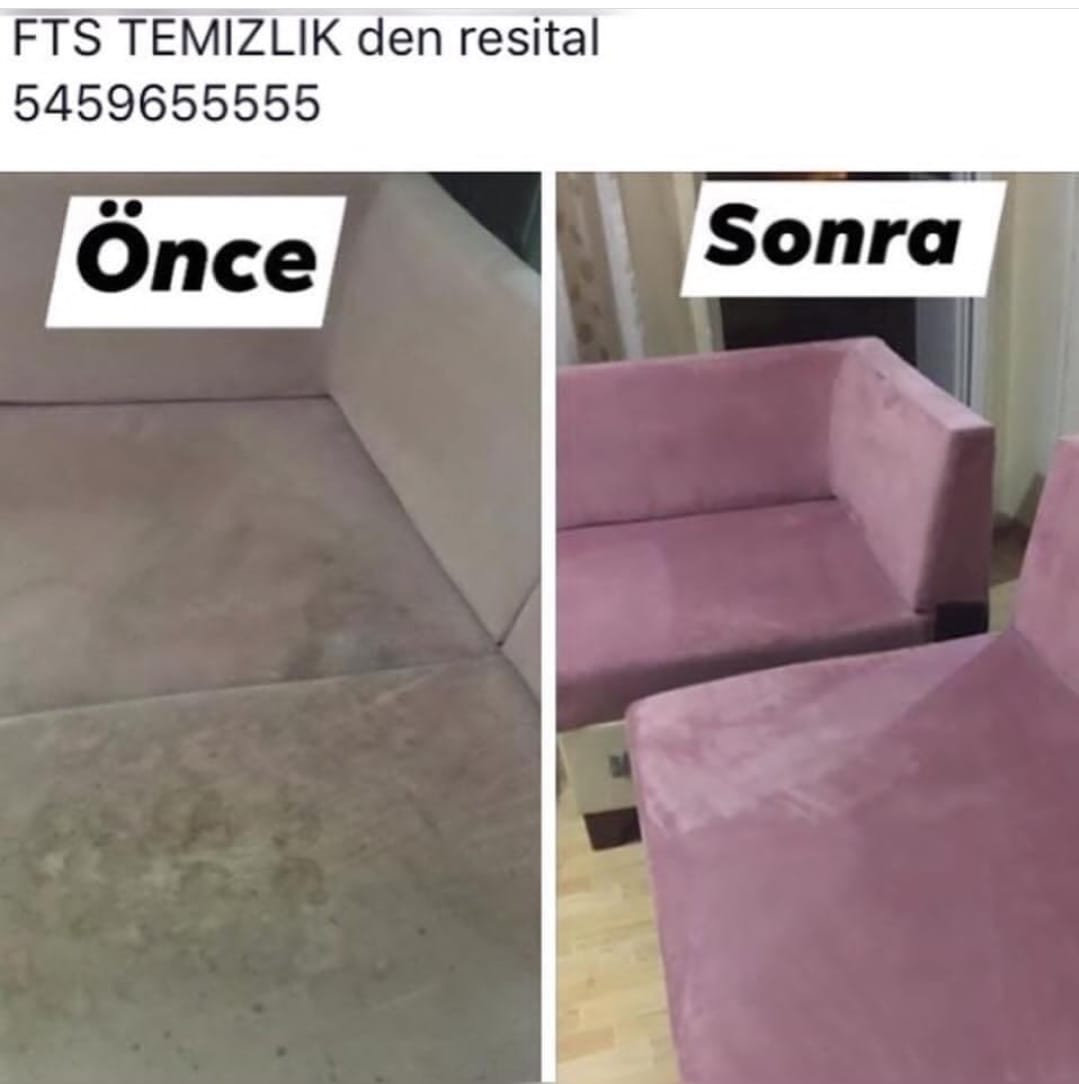
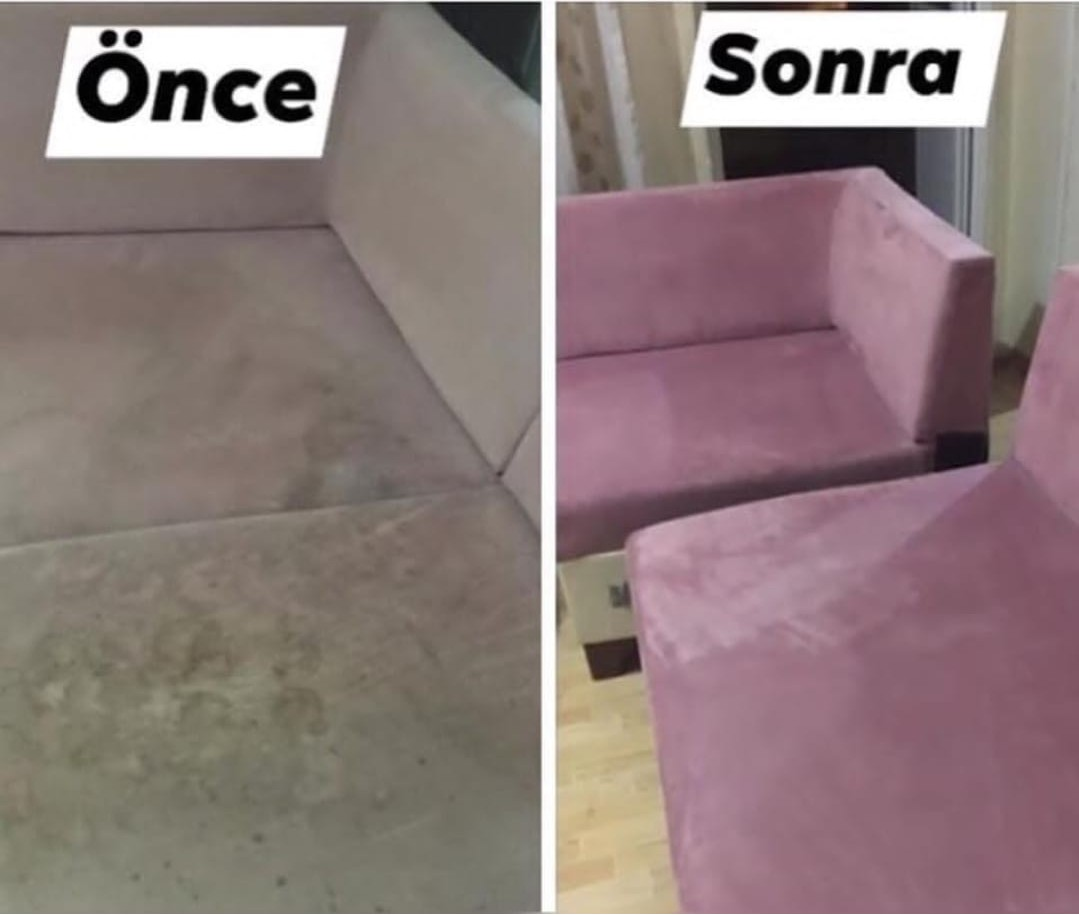
Add files via upload

diff --git a/index.html b/index.html
@@ -115,13 +115,19 @@
     .hero {
       text-align: center;
       padding: 3rem 1.5rem 2rem;
+      background-image: url('yatak.jpeg');
+      background-size: cover;
+      background-position: center;
+      background-repeat: no-repeat;
+      color: white;
+      text-shadow: 0 1px 3px rgba(0,0,0,0.7);
     }
 
     .brand-name {
       font-size: 2.4rem;
       font-weight: 800;
       margin: 0.8rem 0;
-      background: linear-gradient(to right, #0059b3, #00aaff);
+      background: linear-gradient(to right, #ffffff, #cce6ff);
       -webkit-background-clip: text;
       background-clip: text;
       color: transparent;
@@ -129,17 +135,17 @@
 
     .tagline {
       font-size: 1.15rem;
-      color: #0066cc;
+      color: white;
       max-width: 600px;
       margin: 0 auto 1.5rem;
-      opacity: 0.9;
+      opacity: 0.95;
     }
 
     .hero-text {
       max-width: 600px;
       margin: 0 auto 2rem;
       font-size: 1.1rem;
-      opacity: 0.9;
+      opacity: 0.95;
     }
 
     .container {
@@ -319,6 +325,10 @@
       .ilan-card {
         min-width: 100%;
       }
+
+      .hero {
+        background-attachment: scroll;
+      }
     }
   </style>
 </head>
@@ -354,7 +364,7 @@
       <img 
         src="anasayfa-gorsel.png" 
         alt="Temiz evde mutlu çift" 
-        style="width: 100%; max-width: 500px; border-radius: 16px; box-shadow: 0 6px 20px rgba(0, 51, 102, 0.15);"
+        style="width: 100%; max-width: 500px; border-radius: 16px; box-shadow: 0 6px 20px rgba(0, 51, 102, 0.3);"
         onerror="this.src='https://via.placeholder.com/500x300/e6f4ff/0059b3?text=Mutlu+Cift+Temiz+Ev'">
     </div>
     <p class="hero-text">
@@ -384,7 +394,7 @@
       <p>Sınırlı süreli fırsatları kaçırmayın!</p>
       <div class="ilan-container">
         <div class="ilan-card">
-          <img src="kampanya1.jpg" 
+          <img src="kampanya1.jpeg" 
                alt="Haftasonu Temizlik %20 İndirim"
                onerror="this.src='https://via.placeholder.com/400x180/ffe6e6/ff3333?text=Haftasonu+Indirim'">
           <div class="ilan-content">
@@ -394,7 +404,7 @@
           </div>
         </div>
         <div class="ilan-card">
-          <img src="kampanya2.jpg" 
+          <img src="kampanya2.jpeg" 
                alt="Yeni Müşteri Paketi"
                onerror="this.src='https://via.placeholder.com/400x180/e6f9ff/0077cc?text=Yeni+Musteri'">
           <div class="ilan-content">
@@ -412,24 +422,24 @@
       <p>Temizlik sonrası farkı kendiniz görün!</p>
       <div style="display: flex; flex-wrap: wrap; gap: 1.5rem; margin-top: 1.5rem;">
         <div style="flex:1; min-width:250px;">
-          <p style="font-weight:bold;color:#0059b3;">Yatak Temizliği</p>
+          <p style="font-weight:bold;color:#0059b3;">Ofis Temizliği</p>
           <div style="display:flex;gap:8px;margin-top:0.5rem;">
-            <img src="oncesi1.jpg" style="width:48%;border-radius:8px;cursor:pointer;" 
+            <img src="oncesi1.jpeg" style="width:48%;border-radius:8px;cursor:pointer;" 
                  onerror="this.src='https://via.placeholder.com/300x200/e6f2ff/0059b3?text=Oncesi'"
                  onclick="openLightbox(this.src)">
-            <img src="sonrasi1.jpg" style="width:48%;border-radius:8px;cursor:pointer;"
+            <img src="sonrasi1.jpeg" style="width:48%;border-radius:8px;cursor:pointer;"
                  onerror="this.src='https://via.placeholder.com/300x200/ccf0ff/00aaff?text=Sonrasi'"
                  onclick="openLightbox(this.src)">
           </div>
           <p style="font-size:0.9rem;margin-top:0.3rem;opacity:0.8;">Solda önce, sağda sonra</p>
         </div>
         <div style="flex:1; min-width:250px;">
-          <p style="font-weight:bold;color:#0059b3;">Koltuk Temizliği</p>
+          <p style="font-weight:bold;color:#0059b3;">Ev Temizliği</p>
           <div style="display:flex;gap:8px;margin-top:0.5rem;">
-            <img src="oncesi2.jpg" style="width:48%;border-radius:8px;cursor:pointer;"
+            <img src="oncesi2.jpeg" style="width:48%;border-radius:8px;cursor:pointer;"
                  onerror="this.src='https://via.placeholder.com/300x200/f0e6ff/7a00b3?text=Oncesi'"
                  onclick="openLightbox(this.src)">
-            <img src="sonrasi2.jpg" style="width:48%;border-radius:8px;cursor:pointer;"
+            <img src="sonrasi2.jpeg" style="width:48%;border-radius:8px;cursor:pointer;"
                  onerror="this.src='https://via.placeholder.com/300x200/e6fff0/00b37a?text=Sonrasi'"
                  onclick="openLightbox(this.src)">
           </div>
@@ -444,23 +454,23 @@
       <div style="display:flex;flex-wrap:wrap;gap:1.5rem;margin-top:1.5rem;">
         <div style="flex:1;min-width:280px;background:#f0f8ff;padding:1.2rem;border-radius:12px;border-left:4px solid #0077cc;">
           <div style="display:flex;align-items:center;gap:12px;margin-bottom:0.8rem;">
-            <img src="musteri1.jpg" 
+            <img src="musteri1.jpeg" 
                  alt="Müşteri" 
                  style="width:50px;height:50px;border-radius:50%;object-fit:cover;border:2px solid #cce6ff;"
                  onerror="this.src='https://via.placeholder.com/50x50/cccccc/ffffff?text=AK'">
             <div>
               <strong>Ayşe K.</strong><br>
-              <span style="color:#00aaff;font-size:0.9rem;">Yatak Temizliği</span>
+              <span style="color:#00aaff;font-size:0.9rem;">Ev Temizliği</span>
             </div>
           </div>
-          <p style="font-style:italic;">“Haftalardır temizliğe vakit bulamıyordum. Ftstemizlik geldi, Yataklarımızı içinde yaşanacak hale getirdi. Kesinlikle öneriyorum!”</p>       
+          <p style="font-style:italic;">“Haftalardır temizliğe vakit bulamıyordum. Ftstemizlik geldi, 2 saatte evimi cennete çevirdi. Kesinlikle öneriyorum!”</p>
         </div>
         <div style="flex:1;min-width:280px;background:#f0f8ff;padding:1.2rem;border-radius:12px;border-left:4px solid #0077cc;">
           <div style="margin-bottom:0.8rem;">
             <strong>Mehmet B.</strong><br>
-            <span style="color:#00aaff;font-size:0.9rem;">Ofis Koltuk Temizliği</span>
+            <span style="color:#00aaff;font-size:0.9rem;">Ofis Dezenfeksiyonu</span>
           </div>
-          <p style="font-style:italic;">“Ofisimizde koltukları ve sandalyeleri temizlettik. Personel her zaman zamanında, titiz ve nazik. Hijyen seviyesi çok yükseldi. klimaları da temizlettik havamız değişti. Ellerinize sağlık. ”</p>
+          <p style="font-style:italic;">“Ofisimizde haftalık temizlik anlaşması yaptık. Personel her zaman zamanında, titiz ve nazik. Hijyen seviyesi çok yükseldi.”</p>
         </div>
       </div>
     </section>
